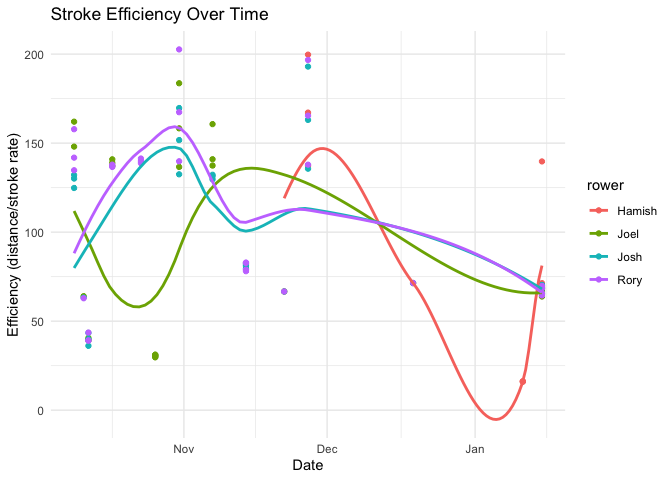
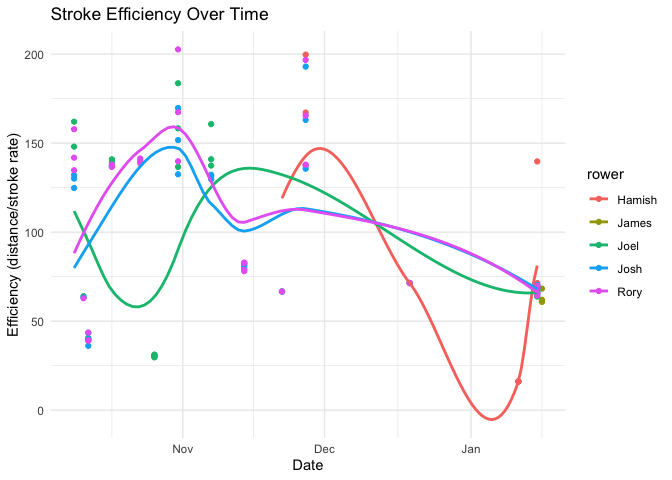
update

diff --git a/row-tracking.md b/row-tracking.md
@@ -19,7 +19,7 @@ skim(rowing_data)
 |                                                  |             |
 |:-------------------------------------------------|:------------|
 | Name                                             | rowing_data |
-| Number of rows                                   | 103         |
+| Number of rows                                   | 106         |
 | Number of columns                                | 6           |
 | \_\_\_\_\_\_\_\_\_\_\_\_\_\_\_\_\_\_\_\_\_\_\_   |             |
 | Column type frequency:                           |             |
@@ -35,29 +35,47 @@ Data summary
 
 | skim_variable | n_missing | complete_rate | min | max | empty | n_unique | whitespace |
 |:--------------|----------:|--------------:|----:|----:|------:|---------:|-----------:|
-| rower         |         0 |             1 |   4 |   6 |     0 |        4 |          0 |
+| rower         |         0 |             1 |   4 |   6 |     0 |        5 |          0 |
 
 **Variable type: numeric**
 
-| skim_variable | n_missing | complete_rate |    mean |     sd |     p0 |  p25 |     p50 |  p75 | p100 | hist  |
-|:--------------|----------:|--------------:|--------:|-------:|-------:|-----:|--------:|-----:|-----:|:------|
-| erg_no        |         0 |             1 |    2.38 |   1.41 |   1.00 |    1 |    2.00 |    3 |    6 | ▇▃▁▁▁ |
-| time_mins     |         0 |             1 |    8.14 |   3.49 |   1.65 |    6 |    6.85 |   12 |   12 | ▂▂▆▂▇ |
-| distance      |         0 |             1 | 2070.54 | 806.06 | 500.00 | 1533 | 2000.00 | 2912 | 3535 | ▆▇▅▆▇ |
-| stroke_rate   |         0 |             1 |   23.47 |   4.12 |  14.00 |   22 |   22.00 |   26 |   31 | ▁▂▇▃▃ |
+| skim_variable | n_missing | complete_rate |    mean |     sd |     p0 |    p25 |     p50 |     p75 | p100 | hist  |
+|:--------------|----------:|--------------:|--------:|-------:|-------:|-------:|--------:|--------:|-----:|:------|
+| erg_no        |         0 |             1 |    2.37 |   1.40 |   1.00 |    1.0 |    2.00 |    3.00 |    6 | ▇▃▁▁▁ |
+| time_mins     |         0 |             1 |    8.08 |   3.46 |   1.65 |    6.0 |    6.78 |   12.00 |   12 | ▂▂▇▂▇ |
+| distance      |         0 |             1 | 2059.33 | 797.23 | 500.00 | 1534.5 | 2000.00 | 2904.25 | 3535 | ▅▇▅▅▆ |
+| stroke_rate   |         0 |             1 |   23.55 |   4.09 |  14.00 |   22.0 |   23.00 |   26.00 |   31 | ▁▂▇▃▃ |
 
 **Variable type: POSIXct**
 
 | skim_variable | n_missing | complete_rate | min        | max        | median     | n_unique |
 |:--------------|----------:|--------------:|:-----------|:-----------|:-----------|---------:|
-| date          |         0 |             1 | 2023-10-09 | 2024-01-15 | 2023-11-14 |       14 |
+| date          |         0 |             1 | 2023-10-09 | 2024-01-16 | 2023-11-14 |       15 |
+
+# Metric Derivation
 
 ``` r
 calculate_days_between <- function(data) {
-  data %>%
+  
+  # do the calc
+  data <- data %>%
     arrange(rower, date) %>%
     group_by(rower) %>%
-    mutate(days_between_sessions = date - lag(date, default = first(date)))
+    mutate(
+      # Calculate days between sessions including zeros
+      days_between_sessions = as.numeric(difftime(date, lag(date, default = date[1]), units = "days"))
+    ) %>%
+    ungroup() # Ensure that subsequent operations are not affected by grouping
+  
+  # Replace zeros with NAs to ignore same-day sessions
+  data <- data %>%
+    group_by(rower) %>%
+    mutate(
+      days_between_sessions = ifelse(days_between_sessions == 0, NA, days_between_sessions)
+    ) %>%
+    fill(days_between_sessions, .direction = "down") %>%
+    ungroup()
+
 }
 
 calculate_speed <- function(data) {
@@ -76,13 +94,6 @@ calculate_burnout_index <- function(data) {
   data %>% mutate(burnout_index = workload / days_between_sessions - efficiency)
 }
 
-calculate_days_between <- function(data) {
-  data %>%
-    arrange(rower, date) %>%
-    group_by(rower) %>%
-    mutate(days_between_sessions = as.numeric(difftime(date, lag(date, default = first(date)), units="days")))
-}
-
 calculate_relative_improvement <- function(data) {
   data %>%
     group_by(rower) %>%
@@ -97,8 +108,6 @@ processed_data <- rowing_data %>%
   calculate_workload() %>%
   calculate_burnout_index() %>%
   calculate_relative_improvement()
-
-# skim(processed_data)
 ```
 
 ``` r
@@ -115,18 +124,19 @@ summary_stats <- processed_data %>%
 print(summary_stats)
 ```
 
-    ## # A tibble: 4 × 6
+    ## # A tibble: 5 × 6
     ##   rower  avg_speed avg_efficiency total_distance total_time avg_burnout_index
     ##   <chr>      <dbl>          <dbl>          <dbl>      <dbl>             <dbl>
-    ## 1 Hamish      270.           79.6          25548       98.3               Inf
-    ## 2 Joel        267.           87.8          56659      217.                Inf
-    ## 3 Josh        250.           99.5          59496      244.                Inf
-    ## 4 Rory        260.          107.           71563      280.                Inf
+    ## 1 Hamish      270.           79.6          25548       98.3              46.6
+    ## 2 James       279.           63.7           5023       18               NaN  
+    ## 3 Joel        267.           87.8          56659      217.               46.0
+    ## 4 Josh        250.           99.5          59496      244.               22.1
+    ## 5 Rory        260.          107.           71563      280.               12.7
 
 ``` r
 ggplot(processed_data, aes(x = date, y = burnout_index, color = rower)) +
   geom_point() +
-  geom_smooth(se = FALSE) +
+  geom_smooth(se = F) +
   labs(title = "Burnout Index Over Time",
        y = "Burnout Index",
        x = "Date") +
@@ -174,11 +184,6 @@ ggplot(processed_data, aes(x = date, y = speed, color = rower)) +
 ``` r
 # Mixed-Effects Model
 speed_model <- lmer(speed ~ days_between_sessions + (1 + days_between_sessions|rower), data=processed_data)
-```
-
-    ## boundary (singular) fit: see ?isSingular
-
-``` r
 speed_model <- lmer(speed ~ days_between_sessions + (1|rower), data=processed_data)
 summary(speed_model)
 ```
@@ -187,26 +192,26 @@ summary(speed_model)
     ## Formula: speed ~ days_between_sessions + (1 | rower)
     ##    Data: processed_data
     ## 
-    ## REML criterion at convergence: 908.1
+    ## REML criterion at convergence: 820.3
     ## 
     ## Scaled residuals: 
     ##     Min      1Q  Median      3Q     Max 
-    ## -3.3709 -0.5687 -0.0440  0.7052  1.7721 
+    ## -3.2607 -0.6062 -0.2960  0.7610  1.9521 
     ## 
     ## Random effects:
     ##  Groups   Name        Variance Std.Dev.
-    ##  rower    (Intercept)  60.75    7.794  
-    ##  Residual             394.05   19.851  
-    ## Number of obs: 103, groups:  rower, 4
+    ##  rower    (Intercept)  33.15    5.757  
+    ##  Residual             363.12   19.056  
+    ## Number of obs: 94, groups:  rower, 4
     ## 
     ## Fixed effects:
     ##                       Estimate Std. Error t value
-    ## (Intercept)           258.7006     4.4885  57.636
-    ## days_between_sessions   0.8144     0.2769   2.941
+    ## (Intercept)           257.5908     4.2838  60.132
+    ## days_between_sessions   0.4683     0.2085   2.246
     ## 
     ## Correlation of Fixed Effects:
     ##             (Intr)
-    ## dys_btwn_ss -0.210
+    ## dys_btwn_ss -0.572
 
 ``` r
 # Visualizations
@@ -216,6 +221,8 @@ ggplot(processed_data, aes(x=days_between_sessions, y=speed, color=rower)) +
   geom_line() +
   labs(title="Individual Speed Trajectories Over Time", x="Days Between Sessions", y="Speed")
 ```
+
+    ## Warning: Removed 12 rows containing missing values (`geom_line()`).
 
 ![](row-tracking_files/figure-gfm/unnamed-chunk-8-1.png)<!-- -->
 
